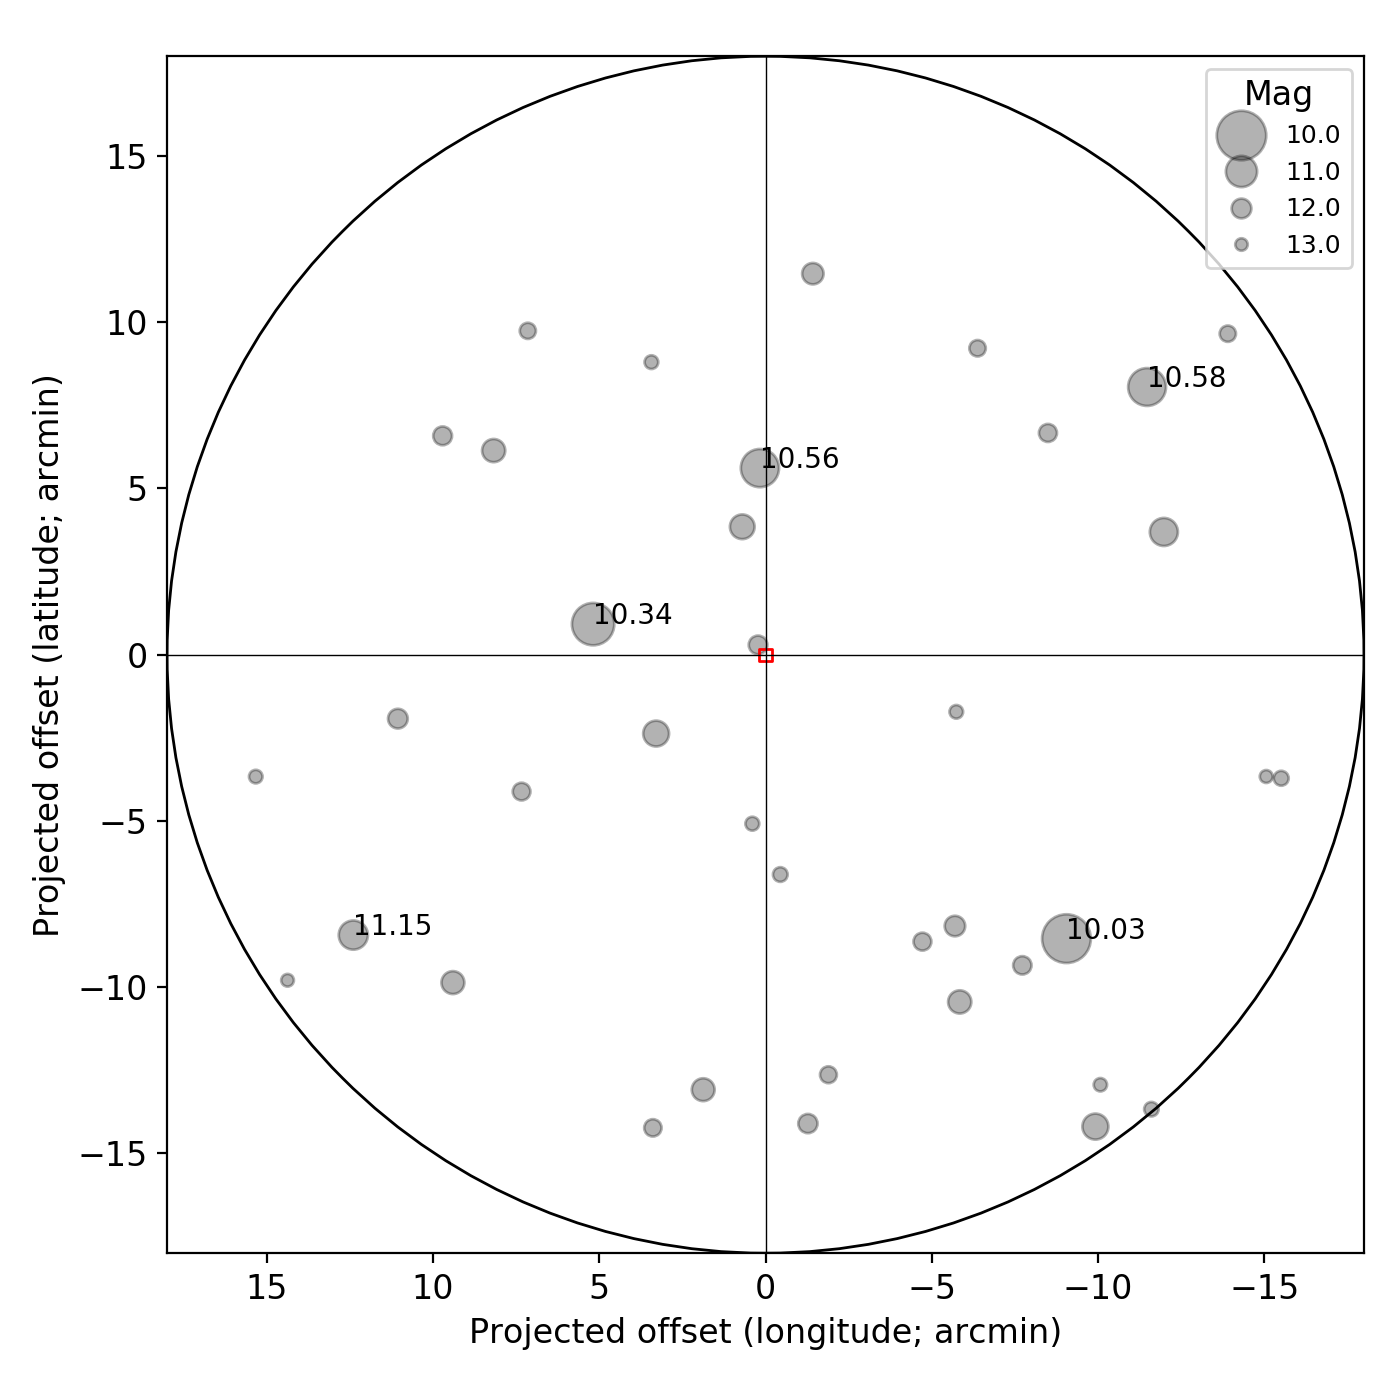
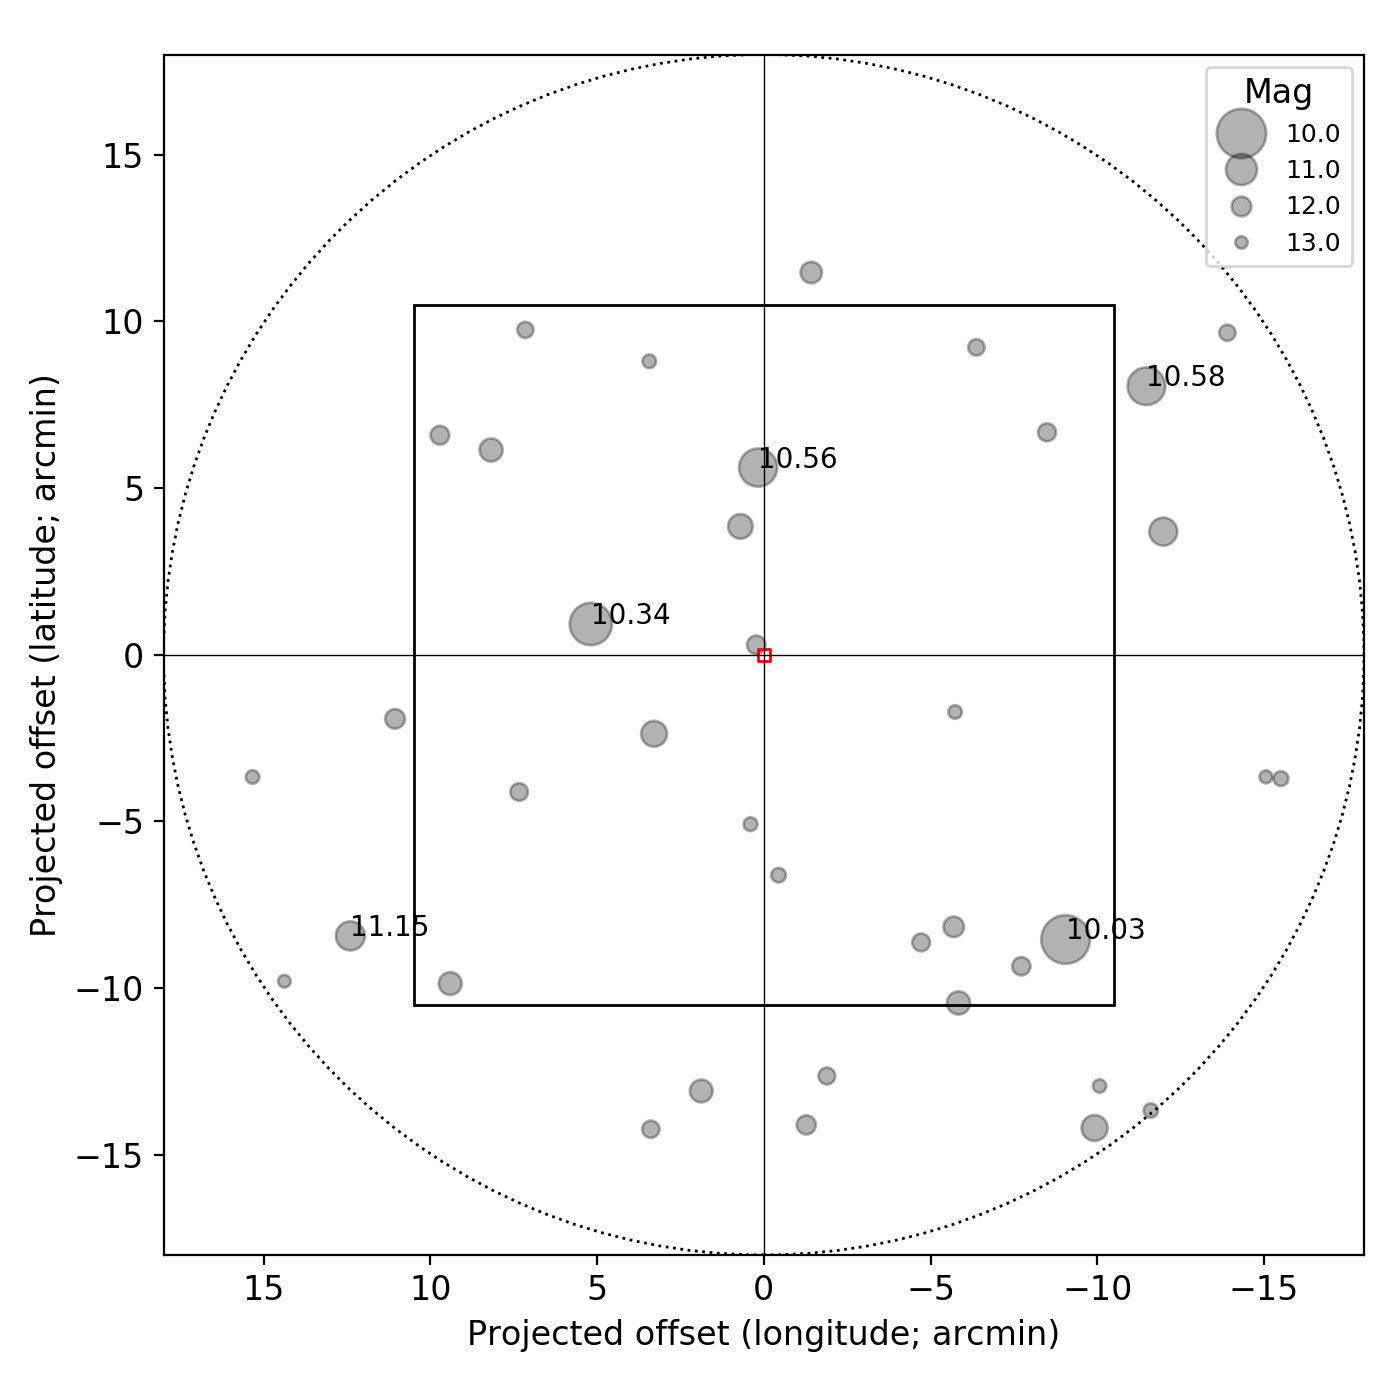
add fov plot

diff --git a/ysobsplanpy/conesearch.py b/ysobsplanpy/conesearch.py
@@ -3,7 +3,7 @@ import numpy as np
 from astropy import units as u
 from astropy.coordinates import SkyCoord, SkyOffsetFrame
 from astroquery.vo_conesearch import ConeSearch
-from matplotlib.patches import Circle
+from matplotlib.patches import Circle, Rectangle
 
 
 __all__ = ['GuideStars']
@@ -49,13 +49,16 @@ class GuideStars():
         return mag_ref - 2.5*np.log10(size/size_factor)
 
     def quickplot(
-            self, ax, marker='o', color='k', size_factor=20., size=None,
-            alpha=0.3, scat_kw={},
-            cross=True, cross_kw={'color': 'k', 'lw': 0.5},
-            unit='arcmin', invert_lon=True, fov_circle=True,
-            fov_kw={'facecolor': 'none', 'edgecolor': 'k', 'lw': 1},
-            num_show_mag=5, mag_kw={'fontsize': 10},
-            legend=True, legend_kw={'loc': 1, 'fontsize': 9}
+        self, ax, marker='o', color='k', size_factor=20., size=None,
+        alpha=0.3, scat_kw={},
+        cross=True, cross_kw={'color': 'k', 'lw': 0.5},
+        unit='arcmin', invert_lon=True, query_circle=True,
+        circ_kw={'facecolor': 'none', 'edgecolor': 'k', 'lw': 1, 'ls': ':'},
+        fov_size=None, fov_angle=0,
+        fov_kw={'facecolor': 'none', 'edgecolor': 'k', 'lw': 1},
+        rect_kw={'facecolor': 'none', 'edgecolor': 'k', 'lw': 1},
+        num_show_mag=5, mag_kw={'fontsize': 10},
+        legend=True, legend_kw={'loc': 1, 'fontsize': 9}
     ):
         show_mag = False
         if num_show_mag is not None:
@@ -70,6 +73,8 @@ class GuideStars():
                             size_factor=size_factor)
         else:
             size_factor = 1.
+
+        rad = self.radius.to_value(unit)
 
         offsets_x = np.array(self.queried['offset_x'].to(unit))
         offsets_y = np.array(self.queried['offset_y'].to(unit))
@@ -94,20 +99,37 @@ class GuideStars():
             ax.axhline(0, **cross_kw)
             ax.axvline(0, **cross_kw)
 
-        if fov_circle:
-            rad = self.radius.to_value(unit)
-            circ = Circle((0, 0), rad, **fov_kw)
+        if query_circle:
+            circ = Circle((0, 0), rad, **circ_kw)
             ax.add_patch(circ)
-            ax.set(
-                xlim=(-rad, +rad),
-                ylim=(-rad, +rad)
-            )
+
+        width = 0.
+        height = 0.
+        if fov_size is not None:
+            fov_size = np.atleast_1d(fov_size)
+            if fov_size.ndim != 1:
+                raise ValueError("fov_size must be scalar or 1-D")
+            if fov_size.shape[0] == 1:
+                width, height = fov_size[0], fov_size[0]
+            elif fov_size.shape[0] == 2:
+                width, height = fov_size[0], fov_size[1]
+            else:
+                raise ValueError("fov_size must be size of 1 or 2.")
+
+            rect = Rectangle((-width/2, -height/2), width=width, height=height,
+                             angle=fov_angle, **fov_kw)
+            ax.add_patch(rect)
 
         # iterate only first ``num_show_mag`` rows
         if show_mag:
             for i in range(num_show_mag):
                 ax.text(offsets_x[i], offsets_y[i],
                         s=f"{mags[i]:.2f}", **mag_kw)
+
+        ax.set(
+            xlim=np.array([-1., 1.])*max(width/2., rad),
+            ylim=np.array([-1., 1.])*max(height/2., rad),
+        )
 
         if invert_lon:
             ax.set(
@@ -122,3 +144,6 @@ class GuideStars():
                 ax.plot(np.nan, np.nan, marker=marker, ls='', alpha=alpha,
                         color=color, label=m, ms=s)
             ax.legend(title="Mag", **legend_kw)
+
+        ax.set_aspect('equal')
+        print(f"FoV = ({width:.1f}, {height:.1f}) {unit}")
